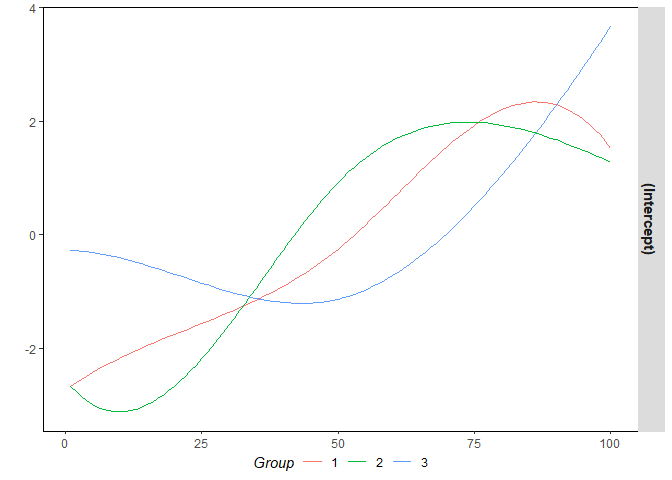
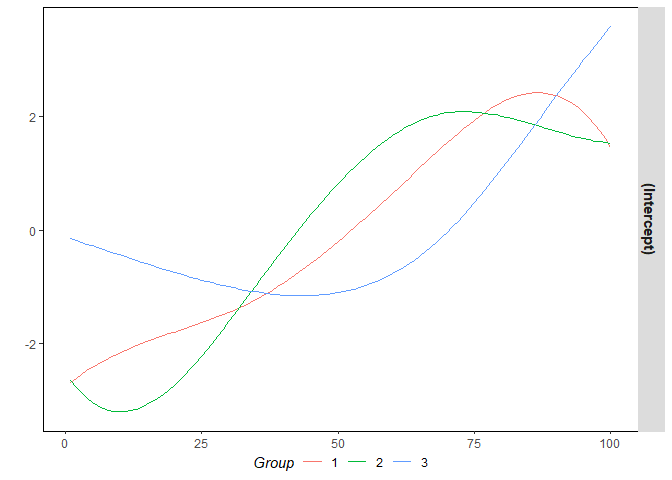
README update

diff --git a/README.md b/README.md
@@ -52,8 +52,7 @@ panel data set with a group structure in the slope coefficients:
 # Simulate a simple panel with three distinct groups and two exogenous explanatory variables
 set.seed(1)
 sim <- sim_DGP(N = 20, n_periods = 150, p = 2, n_groups = 3)
-y <- sim$y
-X <- sim$X
+data <- sim$data
 ```
 
 $$y_{it} = \beta_i^\prime x_{it} + \eta_i + u_{it}, \quad i = 1, \dots, N, \quad t = 1, \dots, T,$$
@@ -81,10 +80,10 @@ independent variables, the number of time periods, and a penalization
 parameter $\lambda$.
 
 ``` r
-estim <- pagfl(y ~ X, n_periods = 150, lambda = 20)
+estim <- pagfl(y ~ X1 + X2, data = data, n_periods = 150, lambda = 20)
 summary(estim)
 #> Call:
-#> pagfl(formula = y ~ X, n_periods = 150, lambda = 20)
+#> pagfl(formula = y ~ X1 + X2, data = data, n_periods = 150, lambda = 20)
 #> 
 #> Balanced panel: N = 20, T = 150, obs = 3000
 #> 
@@ -159,8 +158,7 @@ that `data.frame`. If the explanatory variables in `X` are named, these
 names also appear in the output.
 
 ``` r
-colnames(X) <- c("a", "b")
-data <- cbind(y = c(y), X)
+colnames(data)[-1] <- c("a", "b")
 
 lambda_set <- exp(log(10) * seq(log10(1e-4), log10(10), length.out = 10))
 estim_set <- pagfl(y ~ a + b, data = data, n_periods = 150, lambda = lambda_set)
@@ -215,15 +213,14 @@ Jochmans ([2015](https://doi.org/10.1093/restud/rdv007)).
 # innovations, an AR lag of the dependent variable, and specific group sizes
 sim_endo <- sim_DGP(N = 25, n_periods = 200, p = 2, n_groups = 3, group_proportions = c(0.3, 0.3, 0.4), 
 error_spec = 'GARCH', q = 2, dynamic = TRUE)
-y_endo <- sim_endo$y
-X_endo <- sim_endo$X
+data_endo <- sim_endo$data
 Z <- sim_endo$Z
 
 # Note that the method PGMM and the instrument matrix Z needs to be passed
-estim_endo <- pagfl(y_endo ~ X_endo, n_periods = 200, lambda = 15, method = 'PGMM', Z = Z, bias_correc = TRUE, max_iter = 20e3)
+estim_endo <- pagfl(y ~ ., data = data_endo, n_periods = 200, lambda = 15, method = 'PGMM', Z = Z, bias_correc = TRUE, max_iter = 20e3)
 summary(estim_endo)
 #> Call:
-#> pagfl(formula = y_endo ~ X_endo, n_periods = 200, lambda = 15, 
+#> pagfl(formula = y ~ ., data = data_endo, n_periods = 200, lambda = 15, 
 #>     method = "PGMM", Z = Z, bias_correc = TRUE, max_iter = 20000)
 #> 
 #> Balanced panel: N = 25, T = 200, obs = 4975
@@ -251,7 +248,7 @@ summary(estim_endo)
 #> 
 #> Residual standard error: 7.51953 on 4948 degrees of freedom
 #> Mean squared error 56.23651
-#> Multiple R-squared: -8.37322, Adjusted R-squared: -8.42247
+#> Multiple R-squared: -1.88888, Adjusted R-squared: -1.90406
 ```
 
 Furthermore, `pagfl` lets you select a minimum group size, adjust the
@@ -277,33 +274,34 @@ functions employing a penalized sieve estimation (*PSE*).
 N <- 20
 n_periods <- 100
 tv_sim <- sim_tv_DGP(N = N, n_periods = n_periods, sd_error = 1, intercept = TRUE, p = 1)
-y <- tv_sim$y
+tv_data <- tv_sim$data
 
-tv_estim <- tv_pagfl(y ~ 1, n_periods = n_periods, lambda = 5)
+tv_estim <- tv_pagfl(y ~ 1, data = tv_data, n_periods = n_periods, lambda = 5)
 summary(tv_estim)
 #> Call:
-#> tv_pagfl(formula = y ~ 1, n_periods = n_periods, lambda = 5)
+#> tv_pagfl(formula = y ~ 1, data = tv_data, n_periods = n_periods, 
+#>     lambda = 5)
 #> 
 #> Balanced panel: N = 20, T = 100, obs = 2000
 #> 
 #> Convergence reached:
-#> TRUE (207 iterations)
+#> TRUE (139 iterations)
 #> 
 #> Information criterion:
 #>      IC  lambda 
-#> 1.18412 5.00000 
+#> 1.21839 5.00000 
 #> 
 #> Residuals:
 #>      Min       1Q   Median       3Q      Max 
-#> -3.83243 -0.68348  0.02244  0.65131  2.94155 
+#> -3.79401 -0.67692  0.01779  0.64793  2.87300 
 #> 
 #> 3 groups:
 #>  1  2  3  4  5  6  7  8  9 10 11 12 13 14 15 16 17 18 19 20 
 #>  1  1  2  3  3  2  1  3  1  1  2  3  2  1  2  1  3  3  2  3 
 #> 
-#> Residual standard error: 1.00966 on 1973 degrees of freedom
-#> Mean squared error 1.00566
-#> Multiple R-squared: 0.73854, Adjusted R-squared: 0.73509
+#> Residual standard error: 1.00869 on 1974 degrees of freedom
+#> Mean squared error 1.00424
+#> Multiple R-squared: 0.73891, Adjusted R-squared: 0.7356
 ```
 
 <img src="man/figures/README-unnamed-chunk-8-1.png" width="100%" />
@@ -348,38 +346,37 @@ Lets delete 30% of observations, add indicator variables, and run
 # Draw some observations to be omitted
 delete_index <- as.logical(rbinom(n = N * n_periods, prob = 0.7, size = 1))
 # Construct cross-sectional and time indicator variables
-i_index <- rep(1:N, each = n_periods)
-t_index <- rep(1:n_periods, N)
-data <- cbind(y = c(y), i_index = i_index, t_index = t_index)
-# Delete some observations and create a named data.frame
-data <- data[delete_index,]
+tv_data$i_index <- rep(1:N, each = n_periods)
+tv_data$t_index <- rep(1:n_periods, N)
+# Delete some observations
+tv_data <- tv_data[delete_index,]
 # Apply the time-varying PAGFL to an unbalanced panel
-tv_estim_unbalanced <- tv_pagfl(y ~ 1, data = data, index = c("i_index", "t_index"), lambda = 10)
+tv_estim_unbalanced <- tv_pagfl(y ~ 1, data = tv_data, index = c("i_index", "t_index"), lambda = 5)
 summary(tv_estim_unbalanced)
 #> Call:
-#> tv_pagfl(formula = y ~ 1, data = data, index = c("i_index", "t_index"), 
-#>     lambda = 10)
+#> tv_pagfl(formula = y ~ 1, data = tv_data, index = c("i_index", 
+#>     "t_index"), lambda = 5)
 #> 
 #> Unbalanced panel: N = 20, T = 62-78, obs = 1376
 #> 
 #> Convergence reached:
-#> TRUE (133 iterations)
+#> TRUE (164 iterations)
 #> 
 #> Information criterion:
-#>       IC   lambda 
-#>  1.16034 10.00000 
+#>     IC lambda 
+#> 1.1954 5.0000 
 #> 
 #> Residuals:
 #>      Min       1Q   Median       3Q      Max 
-#> -3.62126 -0.66947  0.00878  0.63187  3.02198 
+#> -3.60335 -0.67652  0.01618  0.62322  2.96063 
 #> 
 #> 3 groups:
 #>  1  2  3  4  5  6  7  8  9 10 11 12 13 14 15 16 17 18 19 20 
 #>  1  1  2  3  3  2  1  3  1  1  2  3  2  1  2  1  3  3  2  3 
 #> 
-#> Residual standard error: 1.00077 on 1349 degrees of freedom
-#> Mean squared error 0.98188
-#> Multiple R-squared: 0.74348, Adjusted R-squared: 0.73854
+#> Residual standard error: 1.00007 on 1350 degrees of freedom
+#> Mean squared error 0.98125
+#> Multiple R-squared: 0.74365, Adjusted R-squared: 0.7389
 ```
 
 <img src="man/figures/README-unnamed-chunk-9-1.png" width="100%" />
